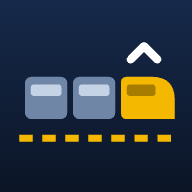
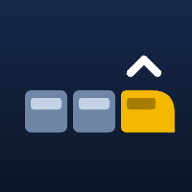
Ikon utan streckad perrongkant

Changed region(s): [[0.0938, 0.2188, 0.9375, 0.75]]

diff --git a/index.html b/index.html
@@ -420,8 +420,8 @@ body.home footer { display: none; }
 }
 </style>
 
-<link rel="icon" type="image/png" sizes="32x32" href="icons/icon-32.png">
-<link rel="apple-touch-icon" href="icons/apple-touch-icon.png">
+<link rel="icon" type="image/png" sizes="32x32" href="icons/icon-32.png?v=2">
+<link rel="apple-touch-icon" href="icons/apple-touch-icon.png?v=2">
 <link rel="manifest" href="manifest.webmanifest">
 <meta name="apple-mobile-web-app-title" content="Fram/bak">
 <meta name="apple-mobile-web-app-capable" content="yes">

diff --git a/make_site.py b/make_site.py
@@ -4,8 +4,8 @@ HERE = os.path.dirname(os.path.abspath(__file__))
 OUT = sys.argv[1]
 page = open(os.path.join(HERE, "dist", "index.html"), encoding="utf-8").read()
 i = page.index('<div class="wrap">')
-head_extra = """<link rel="icon" type="image/png" sizes="32x32" href="icons/icon-32.png">
-<link rel="apple-touch-icon" href="icons/apple-touch-icon.png">
+head_extra = """<link rel="icon" type="image/png" sizes="32x32" href="icons/icon-32.png?v=2">
+<link rel="apple-touch-icon" href="icons/apple-touch-icon.png?v=2">
 <link rel="manifest" href="manifest.webmanifest">
 <meta name="apple-mobile-web-app-title" content="Fram/bak">
 <meta name="apple-mobile-web-app-capable" content="yes">
